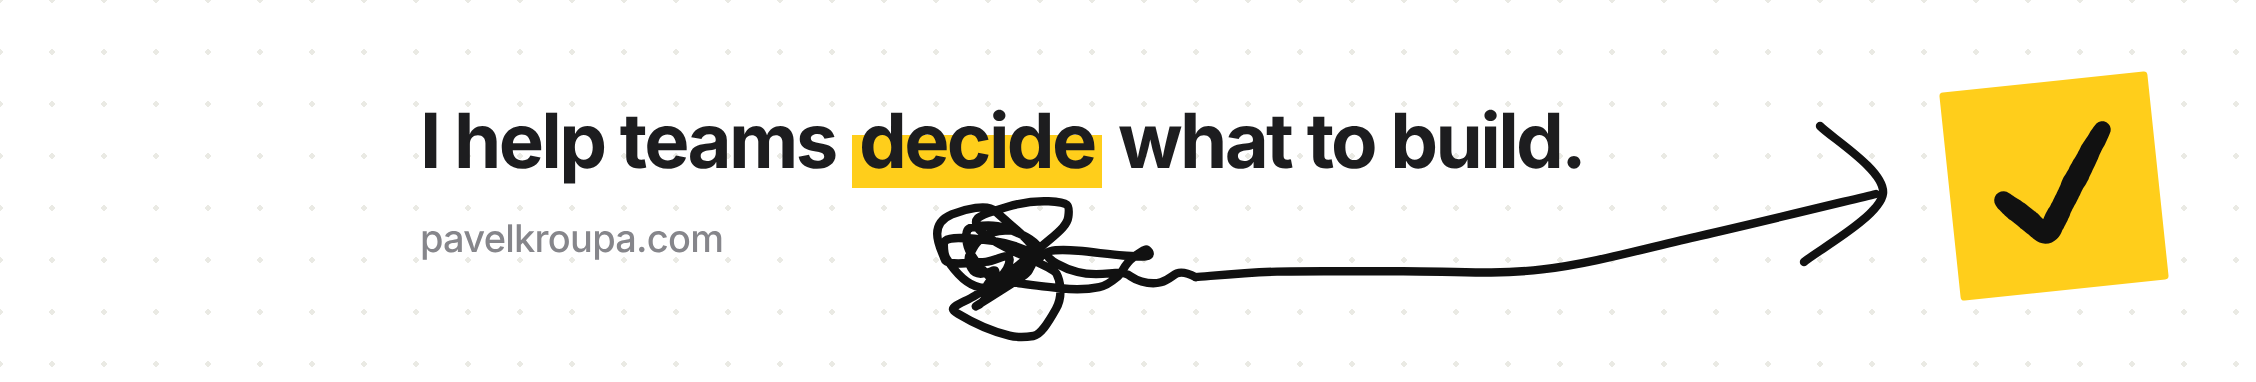
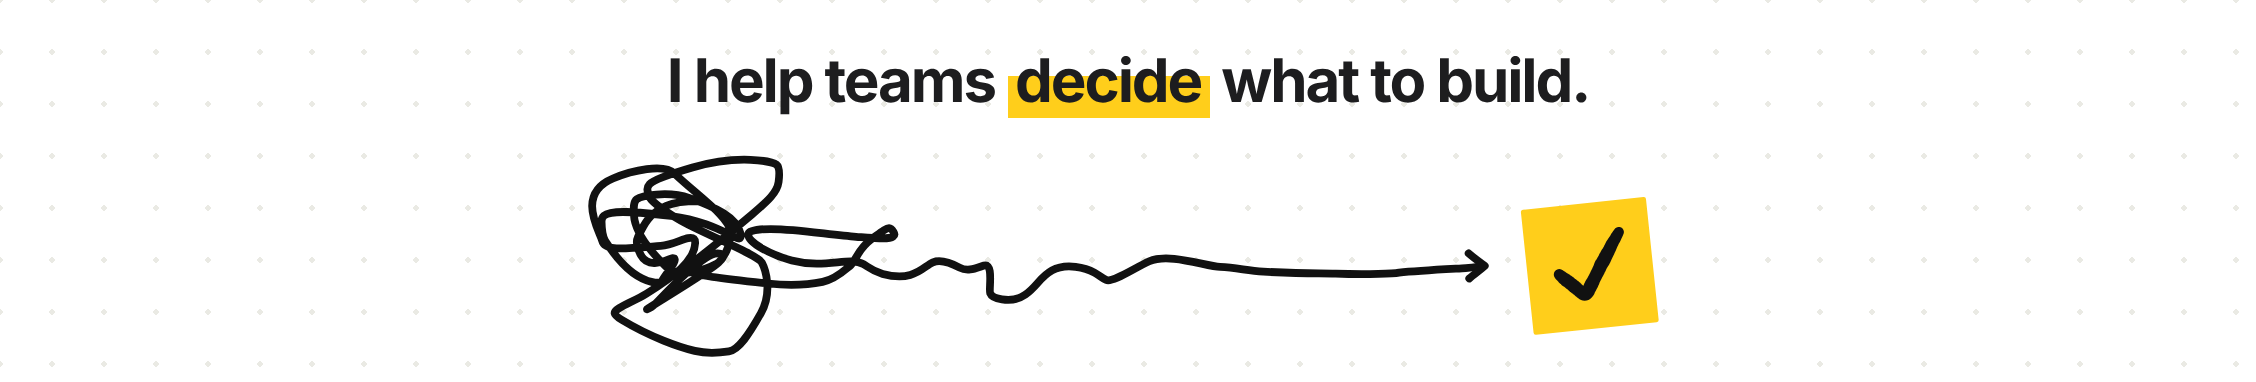
LinkedIn company cover: centered, homepage line (tangle, wave, arrow) leading to the check sticker
Claude-Session: https://claude.ai/code/session_01Ra2rbXUWyeqS39GHjRg1HA

Changed region(s): [[0.1862, 0.144, 0.9619, 0.9503], [0.7757, 0.6623, 0.8067, 0.6911]]

diff --git a/ds/index.html b/ds/index.html
@@ -467,7 +467,8 @@
         <div class="ds-card"><span class="ds-k">Firemní stránka</span>
           <dl class="ds-dl"><dt>Název</dt><dd>pavelkroupa.com</dd><dt>Web</dt><dd>https://pavelkroupa.com</dd><dt>Logo</dt><dd>linkedin-firma-logo-400.png</dd><dt>Titulní obrázek</dt><dd>linkedin-firma-cover-en.png</dd></dl></div>
         <div class="ds-card"><span class="ds-k">Pravidla</span>
-          <ul class="ds-list"><li>Fotka profilu a logo firmy zakrývají levý dolní roh. Text proto začíná vpravo od nich.</li>
+          <ul class="ds-list"><li>Fotka profilu zakrývá levý dolní roh. Text proto začíná vpravo od ní.</li>
+          <li>Titulní obrázek firmy má všechno uprostřed, protože logo zakrývá levý roh a na mobilu se okraje oříznou.</li>
           <li>Jazyk obrázku podle jazyka profilu.</li>
           <li>Hlavička a titulní obrázek jsou ve dvojnásobném rozlišení, aby po zmenšení zůstaly ostré.</li>
           <li>Obrázky se nepřekreslují ručně. Po změně věty nebo kresby spusť <code>node _tools/linkedin-assets.cjs</code>.</li></ul></div>
@@ -482,7 +483,7 @@
         <div class="ds-card"><span class="ds-k">Logo pk</span><ul class="ds-files"><li><a href="/logo/pk/pk-svetle-1024.png" download>pk-svetle-1024.png</a><span>32 kB</span></li><li><a href="/logo/pk/pk-svetle-ctverec-1024.png" download>pk-svetle-ctverec-1024.png</a><span>20 kB</span></li><li><a href="/logo/pk/pk-svetle-ctverec-400.png" download>pk-svetle-ctverec-400.png</a><span>7 kB</span></li><li><a href="/logo/pk/pk-svetle-ctverec.svg" download>pk-svetle-ctverec.svg</a><span>7 kB</span></li><li><a href="/logo/pk/pk-svetle.svg" download>pk-svetle.svg</a><span>7 kB</span></li><li><a href="/logo/pk/pk-tmave-1024.png" download>pk-tmave-1024.png</a><span>28 kB</span></li><li><a href="/logo/pk/pk-tmave-ctverec-1024.png" download>pk-tmave-ctverec-1024.png</a><span>20 kB</span></li><li><a href="/logo/pk/pk-tmave-ctverec-400.png" download>pk-tmave-ctverec-400.png</a><span>7 kB</span></li><li><a href="/logo/pk/pk-tmave-ctverec.svg" download>pk-tmave-ctverec.svg</a><span>7 kB</span></li><li><a href="/logo/pk/pk-tmave.svg" download>pk-tmave.svg</a><span>7 kB</span></li></ul></div>
         <div class="ds-card"><span class="ds-k">Lepítko</span><ul class="ds-files"><li><a href="/logo/logo-1024.png" download>logo-1024.png</a><span>31 kB</span></li><li><a href="/logo/logo-512.png" download>logo-512.png</a><span>14 kB</span></li><li><a href="/logo/logo-na-bile-1024.png" download>logo-na-bile-1024.png</a><span>43 kB</span></li><li><a href="/logo/logo-na-cerne-1024.png" download>logo-na-cerne-1024.png</a><span>27 kB</span></li><li><a href="/logo/logo-pk-1024.png" download>logo-pk-1024.png</a><span>35 kB</span></li><li><a href="/logo/logo-pk.svg" download>logo-pk.svg</a><span>8 kB</span></li><li><a href="/logo/logo-stin-1024.png" download>logo-stin-1024.png</a><span>65 kB</span></li><li><a href="/logo/logo.svg" download>logo.svg</a><span>5 kB</span></li></ul></div>
         <div class="ds-card"><span class="ds-k">Ikony</span><ul class="ds-files"><li><a href="/favicon.svg" download>favicon.svg</a><span>5 kB</span></li><li><a href="/favicon.ico" download>favicon.ico</a><span>3 kB</span></li><li><a href="/apple-touch-icon.png" download>apple-touch-icon.png</a><span>3 kB</span></li><li><a href="/icon-192.png" download>icon-192.png</a><span>11 kB</span></li><li><a href="/icon-512.png" download>icon-512.png</a><span>14 kB</span></li><li><a href="/site.webmanifest" download>site.webmanifest</a><span>406 B</span></li></ul></div>
-        <div class="ds-card"><span class="ds-k">LinkedIn</span><ul class="ds-files"><li><a href="/linkedin/linkedin-profil-cs.png" download>linkedin-profil-cs.png</a><span>130 kB</span></li><li><a href="/linkedin/linkedin-profil-en.png" download>linkedin-profil-en.png</a><span>131 kB</span></li><li><a href="/linkedin/linkedin-firma-logo-400.png" download>linkedin-firma-logo-400.png</a><span>7 kB</span></li><li><a href="/linkedin/linkedin-firma-cover-cs.png" download>linkedin-firma-cover-cs.png</a><span>55 kB</span></li><li><a href="/linkedin/linkedin-firma-cover-en.png" download>linkedin-firma-cover-en.png</a><span>53 kB</span></li></ul></div>
+        <div class="ds-card"><span class="ds-k">LinkedIn</span><ul class="ds-files"><li><a href="/linkedin/linkedin-profil-cs.png" download>linkedin-profil-cs.png</a><span>130 kB</span></li><li><a href="/linkedin/linkedin-profil-en.png" download>linkedin-profil-en.png</a><span>131 kB</span></li><li><a href="/linkedin/linkedin-firma-logo-400.png" download>linkedin-firma-logo-400.png</a><span>7 kB</span></li><li><a href="/linkedin/linkedin-firma-cover-cs.png" download>linkedin-firma-cover-cs.png</a><span>50 kB</span></li><li><a href="/linkedin/linkedin-firma-cover-en.png" download>linkedin-firma-cover-en.png</a><span>48 kB</span></li></ul></div>
         <div class="ds-card"><span class="ds-k">Písmo Shantell Sans</span><ul class="ds-files"><li><a href="/assets/fonts/shantell-sans-latin-ext-abd01b55.woff2" download>shantell-sans-latin-ext.woff2</a><span>36 kB</span></li><li><a href="/assets/fonts/shantell-sans-latin-086ca6b5.woff2" download>shantell-sans-latin.woff2</a><span>77 kB</span></li><li><a href="/assets/fonts/shantell-sans-cs-0f694d8f.woff2" download>shantell-sans-cs.woff2</a><span>8 kB</span></li></ul>
           <p style="margin-top:12px">Celá rodina na <a href="https://fonts.google.com/specimen/Shantell+Sans" rel="noopener">Google Fonts</a>, licence SIL OFL 1.1.</p></div>
       </div>
